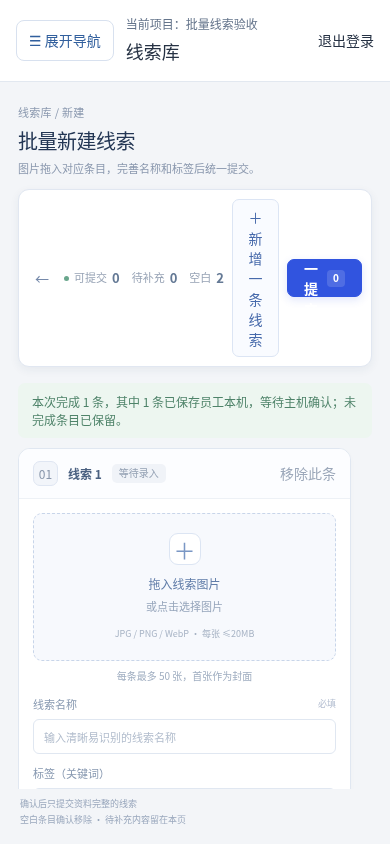
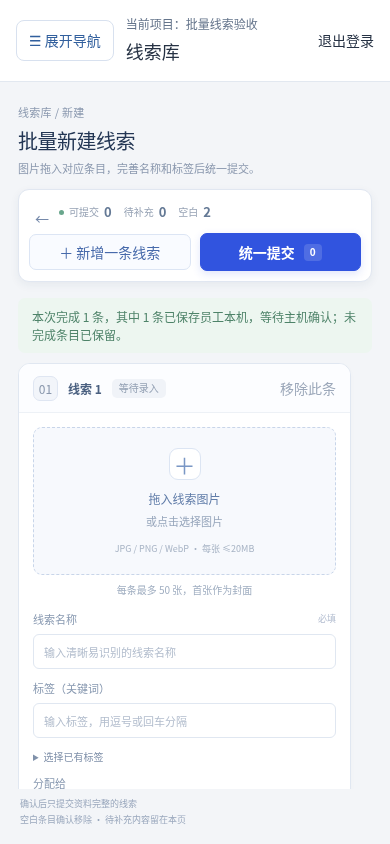
fix: keep intake actions readable on narrow screens

diff --git a/app/globals.css b/app/globals.css
@@ -1131,3 +1131,4 @@ body>.communication-backdrop~.communication-backdrop{z-index:1600}
 .clue-intake-redesign{padding:4px 2px 0;gap:0}.clue-intake-heading{display:flex;justify-content:space-between;align-items:center;gap:20px;margin-bottom:18px}.clue-intake-heading small{font-size:11px;color:#8c9ab0;letter-spacing:.3px}.clue-intake-heading h2{font-size:23px;line-height:1.4;margin:5px 0;color:#233654;letter-spacing:-.5px}.clue-intake-heading p{font-size:12px;color:#8a98ae;margin:0;line-height:1.6}.clue-intake-capacity{display:flex;align-items:baseline;gap:7px;white-space:nowrap;padding:12px 0 12px 18px;border-left:1px solid #dce4f0}.clue-intake-capacity strong{font-size:30px;color:#516a95;font-weight:500;line-height:1}.clue-intake-capacity span{font-size:11px;color:#93a1b7}.clue-intake-redesign .clue-batch-toolbar{background:#fff;border:1px solid #e1e7f1;border-radius:11px;padding:10px 12px;margin-bottom:16px;gap:10px;box-shadow:0 3px 10px #253a5910}.clue-intake-redesign .clue-batch-toolbar button{font-size:12px;min-height:36px}.clue-intake-redesign .clue-intake-back{border-color:transparent;background:transparent;color:#7589aa}.clue-intake-summary{display:flex;align-items:center;gap:18px;margin-right:auto;padding-left:14px;border-left:1px solid #e9edf5;font-size:11px;color:#97a3b5}.clue-intake-summary span{display:flex;align-items:center;gap:5px;white-space:nowrap}.clue-intake-summary b{color:#647995;font-size:13px;font-weight:600;font-variant-numeric:tabular-nums}.ready-dot{width:5px;height:5px;border-radius:50%;background:#69a68c}.clue-intake-redesign .clue-intake-add{background:#f9fbff;border-color:#dce5f4}.clue-intake-redesign .primary-button{display:flex;align-items:center;gap:9px;padding:8px 16px;border-color:#3152e6;background:#3152e6;box-shadow:0 3px 8px #3152e625}.clue-submit-count{font-size:10px;min-width:18px;padding:1px 4px;border-radius:4px;background:#ffffff26;color:#fff}.clue-intake-redesign .clue-batch-scroll{gap:14px;padding-bottom:8px}.clue-intake-redesign .clue-batch-entry{padding:0;border:1px solid #e0e7f1;border-radius:12px;overflow:hidden;box-shadow:0 2px 6px #30476e05}.clue-intake-redesign .clue-batch-entry>header{padding:11px 18px;margin:0;gap:10px;border-bottom:1px solid #edf1f6;background:#fcfdff;min-height:49px}.clue-intake-number{width:25px;height:25px;display:grid;place-items:center;border:1px solid #dfe6f2;border-radius:7px;background:#f2f5fa;color:#8c9db5;font-size:11px;flex:none;font-variant-numeric:tabular-nums}.clue-intake-redesign .clue-batch-entry>header>strong{font-size:12px;font-weight:600;color:#4a6080}.clue-intake-redesign .clue-batch-entry>header>.clue-intake-state{flex:none;font-size:10px;border-radius:5px;padding:2px 7px;color:#94a1b4;background:#f0f3f8}.clue-intake-redesign .state-ready{color:#4d8c72!important;background:#edf7f1!important}.clue-intake-redesign .state-incomplete{color:#ac8b58!important;background:#fcf6e9!important}.clue-intake-redesign .state-error{color:#bc6571!important;background:#fceef0!important}.clue-intake-redesign .clue-batch-entry>header>.clue-intake-remove{margin-left:auto;border:0;background:transparent;color:#9ca8ba;font-size:11px;padding:4px 0 4px 12px;min-height:24px}.clue-intake-remove:hover{color:#c65e70!important}.clue-intake-body{display:grid;grid-template-columns:208px minmax(0,1fr);gap:24px;padding:18px}.clue-intake-media{min-width:0}.clue-intake-redesign .clue-batch-drop{width:100%;height:164px;min-height:164px;gap:7px;background:#f7f9fd;border:1px dashed #c8d5e9;border-radius:9px;overflow:hidden;transition:background .15s,border-color .15s}.clue-intake-redesign .clue-batch-drop:hover{background:#f0f5ff;border-color:#859fda}.clue-upload-symbol{display:grid;place-items:center;width:32px;height:32px;border:1px solid #dce5f3;border-radius:9px;color:#7a97c5;background:#fff;font-size:22px;line-height:1;margin-bottom:3px}.clue-intake-redesign .clue-batch-drop strong{font-size:12px;color:#617da9;font-weight:500}.clue-intake-redesign .clue-batch-drop small{font-size:11px;color:#96a5bb}.clue-intake-redesign .clue-batch-drop em{font-style:normal;font-size:9px;color:#a8b4c5;margin-top:5px}.clue-intake-redesign .clue-batch-drop.has-images{border-style:solid;border-color:#e0e7f1;background:#f8f9fc}.clue-batch-drop.has-images>img{width:100%;height:100%;object-fit:contain}.clue-media-count{position:absolute;left:8px;top:8px;background:#fffffff0;color:#5e7494;font-size:10px;padding:2px 7px;border-radius:5px}.clue-media-add{position:absolute;bottom:0;left:0;right:0;text-align:center;background:#fffffff2;border-top:1px solid #e8edf4;padding:6px;font-size:10px;color:#6682af}.clue-media-note{font-size:10px;color:#a0aec1;text-align:center;margin:8px 0 0}.clue-intake-redesign .clue-batch-images{flex-wrap:nowrap;overflow-x:auto;gap:6px;margin-top:8px;padding-top:3px;max-width:100%}.clue-intake-redesign .clue-batch-image{position:relative;flex:none;width:43px;height:43px;border:1px solid #e2e8f2;border-radius:6px;padding:2px;display:block;background:#f7f9fc}.clue-intake-redesign .clue-batch-image img{width:37px;height:37px;object-fit:contain}.clue-intake-redesign .clue-batch-image>span{display:none}.clue-intake-redesign .clue-batch-image button{position:absolute;right:-1px;top:-3px;background:#fff;color:#8e9db3;box-shadow:0 1px 4px #25395720;border:1px solid #e1e7f1;padding:0;min-height:0;width:15px;height:15px;line-height:12px;border-radius:50%;font-size:11px}.clue-intake-redesign .clue-batch-fields{grid-template-columns:minmax(140px,1fr) minmax(140px,1fr);gap:12px 16px;align-content:start}.clue-intake-name,.clue-intake-redesign .clue-tags-editor{grid-column:1/-1}.clue-intake-redesign .clue-batch-fields label{font-size:11px;color:#8899b1;gap:6px;position:relative}.clue-intake-redesign .clue-batch-fields input,.clue-intake-redesign .clue-batch-fields select{height:35px;border-color:#e0e7f1;border-radius:6px;color:#4a6082;font-size:12px;padding:7px 10px;background:#fff;transition:border-color .15s,box-shadow .15s}.clue-intake-redesign .clue-batch-fields input::placeholder{color:#b2bdcd;font-size:11px}.clue-intake-redesign .clue-batch-fields input:focus,.clue-intake-redesign .clue-batch-fields select:focus{outline:none;border-color:#97afe0;box-shadow:0 0 0 3px #3152e60b}.clue-field-required{position:absolute;top:0;right:0;font-size:9px;color:#b3bdd0}.clue-intake-redesign .clue-tag-chips{margin-top:6px}.clue-intake-redesign .clue-tag{font-size:10px;padding:2px 7px!important;border-radius:4px}.clue-intake-redesign .clue-tag-suggestions{font-size:10px;margin-top:6px}.clue-intake-redesign .clue-batch-hint{grid-column:1/-1;font-size:10px;margin:0;color:#b49a72}.clue-intake-error,.clue-intake-lock-note{grid-column:1/-1;font-size:11px;margin:0;color:#b26775;line-height:1.6}.clue-intake-lock-note{color:#8f9eb4}.clue-intake-footer{display:flex;justify-content:space-between;gap:12px;font-size:10px;color:#9aa8bd;padding:10px 2px 0;flex:none}.clue-intake-progress{font-size:12px;padding:10px 14px;background:#edf2ff;border-radius:8px;color:#5a75aa;margin:0 0 10px}.clue-intake-redesign .clue-batch-result{margin:0 0 10px}.clue-intake-redesign button:disabled{cursor:default;opacity:.5}@media(min-width:1700px){.clue-intake-redesign .clue-batch-scroll{display:grid;grid-template-columns:repeat(2,minmax(0,1fr));align-content:start;align-items:start}.clue-intake-body{grid-template-columns:176px minmax(0,1fr);gap:18px}.clue-intake-redesign .clue-batch-fields{grid-template-columns:minmax(100px,1fr) minmax(100px,1fr)}}@media(max-width:900px){.clue-intake-body{grid-template-columns:170px minmax(0,1fr);gap:16px}.clue-intake-summary{gap:10px;padding-left:10px}.clue-intake-redesign .clue-intake-back{display:none}}@media(max-width:600px){.clue-intake-redesign{padding:8px}.clue-intake-heading{margin-bottom:12px;gap:12px}.clue-intake-heading h2{font-size:20px}.clue-intake-heading p{font-size:11px}.clue-intake-capacity{display:none}.clue-intake-redesign .clue-batch-toolbar{padding:9px;gap:8px}.clue-intake-summary{width:100%;padding:0;border:0;gap:16px;order:0;margin-bottom:2px}.clue-intake-add{flex:1}.clue-intake-redesign .clue-batch-toolbar>.primary-button{flex:1;justify-content:center}.clue-intake-body{grid-template-columns:1fr;padding:14px;gap:14px}.clue-intake-redesign .clue-batch-drop{height:148px;min-height:148px}.clue-intake-redesign .clue-batch-entry>header{padding:10px 14px}.clue-intake-redesign .clue-batch-fields{grid-template-columns:1fr;gap:12px}.clue-intake-footer{flex-direction:column;gap:3px;padding-top:8px;font-size:9px}.clue-intake-redesign .clue-intake-back{display:none}}
 .clue-intake-redesign .clue-batch-entry>header>.clue-intake-number{flex:none}.clue-intake-redesign .clue-intake-back{display:inline-flex;align-items:center;gap:6px}@media(max-width:900px){.clue-intake-redesign .clue-intake-back{display:inline-flex}.clue-back-label{display:none}}@media(max-width:600px){.clue-intake-redesign .clue-intake-back{display:inline-flex;order:0;padding:3px 6px;min-height:26px}.clue-intake-redesign .clue-intake-summary{width:auto;flex:1;justify-content:flex-end;gap:12px;margin:0}.clue-intake-redesign .clue-intake-add,.clue-intake-redesign .clue-batch-toolbar>.primary-button{order:1}}
 @media(min-width:601px) and (max-width:900px){.clue-intake-redesign .clue-batch-fields{grid-template-columns:minmax(0,1fr)}}
+@media(max-width:600px){.clue-intake-redesign .clue-batch-toolbar{position:relative;display:grid;grid-template-columns:repeat(2,minmax(0,1fr));gap:9px;padding:10px}.clue-intake-redesign .clue-intake-back{position:absolute;left:10px;top:10px;min-height:24px;height:24px;padding:2px 5px}.clue-intake-redesign .clue-intake-summary{grid-column:1/-1;grid-row:1;min-height:24px;width:100%;padding-left:30px;justify-content:flex-start;box-sizing:border-box;font-size:10px;gap:12px}.clue-intake-redesign .clue-intake-add{grid-column:1;grid-row:2;order:0;width:100%;white-space:nowrap;min-width:0}.clue-intake-redesign .clue-batch-toolbar>.primary-button{grid-column:2;grid-row:2;order:0;width:100%;white-space:nowrap;min-width:0}}

diff --git a/tests/clue-batch.browser.py b/tests/clue-batch.browser.py
@@ -46,5 +46,5 @@ with sync_playwright() as p:
   elif path=='ready':route.fulfill(json={'detail':{'row':{'id':-42}},'savedLocally':True})
   else:route.fulfill(json={'ok':True})
  page.route('**/employee-api/**',employee);entries.get_by_label('线索名称',exact=True).fill(prefix+'员工本机');entries.get_by_label('标签（关键词）',exact=True).fill('本机,');entries.get_by_label('选择线索图片').set_input_files({'name':'local.png','mimeType':'image/png','buffer':png()});page.get_by_role('button',name='统一提交',exact=True).click();confirm();expect(page.locator('.clue-batch-result')).to_contain_text('等待主机确认');assert len(jobs)==1 and next(iter(jobs.values()))['draft']['submit'] is True;assert len(items())==3;checks+=3;page.unroute('**/employee-api/**',employee);page.evaluate('delete window.__ORBIT_EMPLOYEE__')
- page.set_viewport_size({'width':390,'height':844});page.get_by_role('button',name='收起导航',exact=True).click();page.get_by_role('button',name='＋ 新增一条线索',exact=True).click();assert page.evaluate('document.documentElement.scrollWidth<=innerWidth+1');page.screenshot(path=str(out/'batch-narrow.png'));checks+=1
+ page.set_viewport_size({'width':390,'height':844});page.get_by_role('button',name='收起导航',exact=True).click();page.get_by_role('button',name='＋ 新增一条线索',exact=True).click();assert page.evaluate('document.documentElement.scrollWidth<=innerWidth+1');assert page.get_by_role('button',name='＋ 新增一条线索',exact=True).bounding_box()['width']>=120;assert page.get_by_role('button',name='统一提交',exact=True).bounding_box()['height']<=50;page.screenshot(path=str(out/'batch-narrow.png'));checks+=3
  assert not errors,errors;browser.close();print(json.dumps({'checks':checks,'pageErrors':errors,'screenshots':str(out)},ensure_ascii=False))

diff --git a/V3.32.1-批量线索界面优化验收.md b/V3.32.1-批量线索界面优化验收.md
@@ -13,6 +13,6 @@
 
 ## 验证与交付
 
-复用原有批量录入浏览器流程，检查拖入图片、标签选择、提交二次确认、空白清理、待补充保留、失败续传不重复、HTTP校验回退、员工本机等待确认、返回和导航提醒及窄屏。补拍普通桌面、1920宽屏和390窄屏截图；31项原有批量录入检查通过，未捕获浏览器错误；类型、重点ESLint与生产构建通过。截图见docs/screenshots/v3.32.1-batch-ready.png、v3.32.1-batch-wide.png及v3.32.1-batch-narrow.png。
+复用原有批量录入浏览器流程，检查拖入图片、标签选择、提交二次确认、空白清理、待补充保留、失败续传不重复、HTTP校验回退、员工本机等待确认、返回和导航提醒及窄屏。补拍普通桌面、1920宽屏和390窄屏截图；33项批量录入与窄屏按钮布局检查通过，未捕获浏览器错误；类型、重点ESLint与生产构建通过。截图见docs/screenshots/v3.32.1-batch-ready.png、v3.32.1-batch-wide.png及v3.32.1-batch-narrow.png。
 
 没有新增数据库迁移，没有变更员工端运行程序。先备份数据库和媒体目录，主机完整解压后运行Update.cmd；正常员工端无需重装，联网同步新页面后刷新／重新打开系统。测试仅使用临时数据库和媒体目录，未部署，未执行Windows实机安装或更新。
